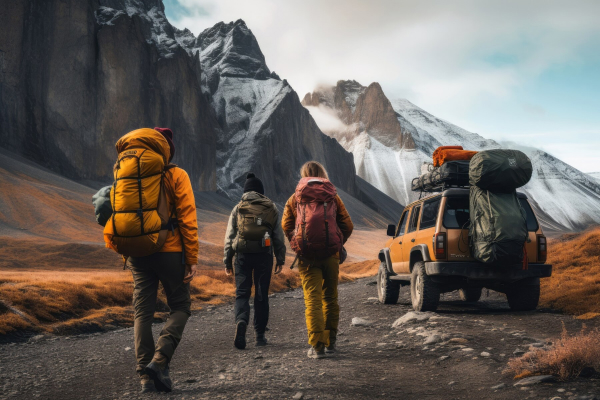
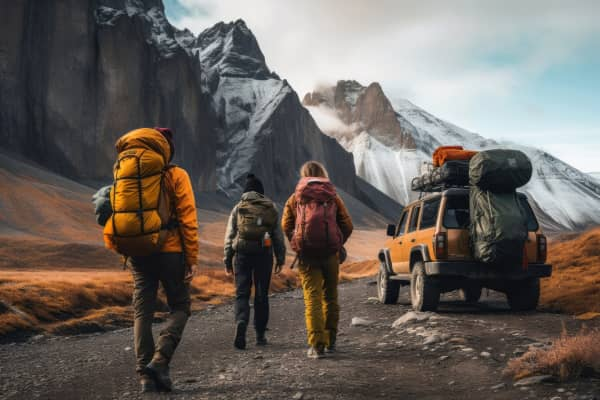
img compressor and small fixes

diff --git a/js/checkout.js b/js/checkout.js
@@ -4,7 +4,7 @@ import { rainydaysApi, loadingSpinner } from "./constants.js";
 const cartSummaryContainer = document.getElementById("cart-summary");
 let cartItems = JSON.parse(localStorage.getItem("cart") || "[]");
 
-async function fetchCartItems() {
+async function displayCartItems() {
   cartSummaryContainer.innerHTML = "";
   let totalPrice = 0;
 
@@ -97,7 +97,7 @@ function adjustQuantity(itemId, adjustment, size) {
 
     localStorage.setItem("cart", JSON.stringify(cartItems));
     updateCartBadge(cartItems);
-    fetchCartItems();
+    displayCartItems();
   }
 }
 
@@ -113,7 +113,7 @@ function updateCartBadge(cartItems) {
   }
 }
 
-fetchCartItems();
+displayCartItems();
 
 const checkoutBtn = document.getElementById("checkout-btn")
 

diff --git a/shop/search-results.html b/shop/search-results.html
@@ -16,6 +16,7 @@
   <script src="../js/cart.js" type="module"></script>
   <title>Rainydays | Search Results</title>
 </head>
+
 <body>
   <header>
     <section class="header-start">

diff --git a/shop/shop-female.html b/shop/shop-female.html
@@ -16,6 +16,7 @@
   <script src="../js/cart.js" type="module"></script>
   <title>Rainydays | Shop Female</title>
 </head>
+
 <body>
   <header>
     <section class="header-start">

diff --git a/shop/shop-male.html b/shop/shop-male.html
@@ -16,6 +16,7 @@
   <script src="../js/cart.js" type="module"></script>
   <title>Rainydays | Shop Male</title>
 </head>
+
 <body>
   <header>
     <section class="header-start">

diff --git a/shop/products.html b/shop/products.html
@@ -16,6 +16,7 @@
   <script src="../js/cart.js" type="module"></script>
   <title>Rainydays | Jacket</title>
 </head>
+
 <body>
   <header>
     <section class="header-start">
